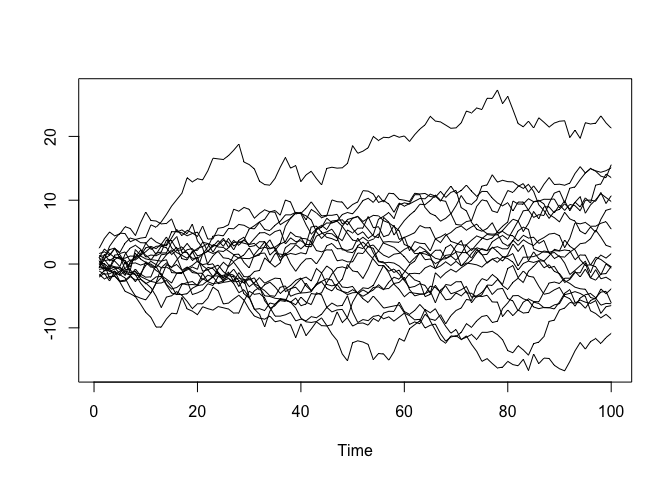
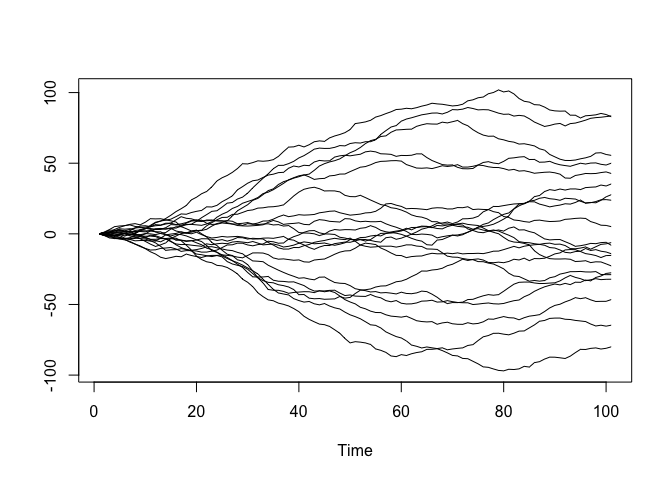
Corrected few errors in README and vignettes: made the simulated process non-stationary with 2 lags and some clarifications added.

diff --git a/README.md b/README.md
@@ -274,31 +274,42 @@ library(igraph)
 #>     union
 
 #First, let us simulate some time series
-#The SimulNS below simulates a (non-sparse) non-stationary VAR(1) with sample size T_ and number of variables g
-simulNS=function(T_,g){
+#The SimulVAR below simulates a (non-sparse) stationary VAR(1) with sample size T_ and number of variables g
+SimulVAR=function(T_,g){
   coef1<-matrix(NA,nrow=g,ncol=g)
   for (i in 1:g) {
     for (j in 1:g) {
       coef1[i,j]<-((-1)^(abs(i-j)))*(0.4^(abs(i-j)+1))
     }
   }
-  diag(coef1)<-0.7
   presample<-1
   T_new<-T_+presample
   eps1<-rnorm(ncol(coef1)*T_new,0,1)
   eps<-matrix(eps1,nrow=ncol(coef1))
   X <- matrix(nrow=ncol(coef1),ncol=T_new)
-  X[,1] <- (eps[,1])
+  X[,1] <- eps[,1]
   for (t in 2:T_new) {
-    X[,t] <- X[,t-1]+(eps[,t])
+    X[,t] <- (coef1)%*%X[,t-1]+eps[,t]
   }
   finseries<- X[,(1+presample):T_new]
   return(t(finseries))
 }
 
-#Let us fix some seed and simulate 20 non-stationary time series with sample size 100 from a VAR(1)
+#You can check the stationarity of the VAR(1) by simply observing:
+g=20
+coef<-matrix(NA,nrow=g,ncol=g)
+  for (i in 1:g) {
+    for (j in 1:g) {
+      coef[i,j]<-((-1)^(abs(i-j)))*(0.4^(abs(i-j)+1))
+    }
+  }
+max(eigen(coef)$values) #<1
+#> [1] 0.9132571
+
+#Let us fix some seed and simulate 20 non-stationary time series with sample size 100 from a VAR(2) by taking the inverse difference of the stationary series simulated
 set.seed(123)
-dataset<-as.matrix(simulNS(100,20))
+dataset_I0<-as.matrix(SimulVAR(100,20))
+dataset<-as.matrix(diffinv(dataset_I0))
 colnames(dataset)<-c(paste(rep("Var",20),1:20))
 
 #Let us plot the time series to get a feeling of what kind of data we are dealing with
@@ -310,67 +321,81 @@ ts.plot(dataset)
 ``` r
 
 #Select the lag-length of the VAR using HDGCvar::lags_upbound_BIC
-selected_lag<-lags_upbound_BIC(dataset,p_max=10) 
-#Note: hooray! the selected lag is p=1 which it is correct given our simulated data! Of course in practice we could not know this.
+selected_lag<-lags_upbound_BIC(dataset,p_max=10)
+print(selected_lag)
+#> [1] 2
+#Note: hooray! the selected lag is p=2 which it is correct given our simulated data! Of course in practice we could not know this.
 
 #Suppose we are interested in testing whether variable name "Var5" Granger-causes variable name "Var1" given all other variables in your dataset.
 interest_variables=list("GCto"="Var 1","GCfrom"="Var 5")
 
-#By quick diagnostics on the series in your dataset from the previous plot we seem to have some time series with unit roots and probably cointegration. 
+#By visual diagnostics on the series in our dataset from the previous plot we definitely have some time series with unit roots and probably cointegration. Actually: we definitely know this as we created the process in such a way that all the variables have a unit root, in practice obviously this would not be the case.
 
-#With HDGCvar you can completely avoid any pre-tests of integration/cointegration of your series. As we do not know whether the maximum order of integration of our time series is one or two, the safe choice is to let d=2 and simply run
+#However, the nice feature of HDGCvar is that you can completely avoid any pre-tests of integration/cointegration of your series. As we do not know whether the maximum order of integration of our time series is one or two, the safe choice is to let d=2 and simply run
 
 HDGC_VAR(GCpair=interest_variables, data=dataset, p = selected_lag, d = 2, bound = 0.5 * nrow(dataset),
                      parallel = T, n_cores = NULL) 
 #> $tests
 #>             Asymp    FS_cor
-#> LM_stat 0.9430489 0.7755906
-#> p_value 0.3314950 0.3811645
+#> LM_stat 2.1901403 0.8547127
+#> p_value 0.3345161 0.4295616
 #> 
 #> $selections
 #>  Var 1 l1  Var 2 l1  Var 3 l1  Var 4 l1  Var 6 l1  Var 7 l1  Var 8 l1  Var 9 l1 
-#>      TRUE      TRUE      TRUE      TRUE      TRUE      TRUE      TRUE     FALSE 
+#>      TRUE      TRUE      TRUE      TRUE      TRUE     FALSE      TRUE      TRUE 
 #> Var 10 l1 Var 11 l1 Var 12 l1 Var 13 l1 Var 14 l1 Var 15 l1 Var 16 l1 Var 17 l1 
-#>      TRUE      TRUE     FALSE     FALSE     FALSE      TRUE      TRUE     FALSE 
-#> Var 18 l1 Var 19 l1 Var 20 l1 
-#>      TRUE      TRUE     FALSE
+#>     FALSE     FALSE     FALSE      TRUE     FALSE     FALSE      TRUE     FALSE 
+#> Var 18 l1 Var 19 l1 Var 20 l1  Var 1 l2  Var 2 l2  Var 3 l2  Var 4 l2  Var 6 l2 
+#>     FALSE     FALSE      TRUE      TRUE      TRUE     FALSE     FALSE      TRUE 
+#>  Var 7 l2  Var 8 l2  Var 9 l2 Var 10 l2 Var 11 l2 Var 12 l2 Var 13 l2 Var 14 l2 
+#>     FALSE      TRUE     FALSE     FALSE     FALSE     FALSE     FALSE     FALSE 
+#> Var 15 l2 Var 16 l2 Var 17 l2 Var 18 l2 Var 19 l2 Var 20 l2 
+#>      TRUE      TRUE      TRUE     FALSE     FALSE     FALSE
 
 #Now, suppose we are interested in testing multiple Granger causality relations
 mult_interest_variables<-list(list("GCto"="Var 7", "GCfrom"="Var 19"),list("GCto"="Var 4", "GCfrom"="Var 16"))
-HDGC_VAR_multiple(dataset, GCpairs=mult_interest_variables, p=1, d=2, bound = 0.5 * nrow(dataset),
+HDGC_VAR_multiple(dataset, GCpairs=mult_interest_variables, p= selected_lag, d=2, bound = 0.5 * nrow(dataset),
                      parallel = T, n_cores = NULL)
 #> $tests
 #> , , GCtests = Var 19 -> Var 7
 #> 
 #>          type
 #> stat          Asymp    FS_cor
-#>   LM_stat 0.3564270 0.2802923
-#>   p_value 0.5504973 0.5980528
+#>   LM_stat 0.6076704 0.2301010
+#>   p_value 0.7379825 0.7950274
 #> 
 #> , , GCtests = Var 16 -> Var 4
 #> 
 #>          type
-#> stat           Asymp     FS_cor
-#>   LM_stat 0.07479022 0.06018699
-#>   p_value 0.78448580 0.80684497
+#> stat          Asymp    FS_cor
+#>   LM_stat 0.5822482 0.2355135
+#>   p_value 0.7474229 0.7907248
 #> 
 #> 
 #> $selections
 #> $selections$`Var 19 -> Var 7`
 #>  Var 1 l1  Var 2 l1  Var 3 l1  Var 4 l1  Var 5 l1  Var 6 l1  Var 7 l1  Var 8 l1 
-#>      TRUE      TRUE     FALSE      TRUE      TRUE      TRUE      TRUE      TRUE 
+#>     FALSE      TRUE     FALSE      TRUE     FALSE     FALSE      TRUE      TRUE 
 #>  Var 9 l1 Var 10 l1 Var 11 l1 Var 12 l1 Var 13 l1 Var 14 l1 Var 15 l1 Var 16 l1 
-#>      TRUE      TRUE      TRUE      TRUE      TRUE     FALSE     FALSE      TRUE 
-#> Var 17 l1 Var 18 l1 Var 20 l1 
-#>      TRUE      TRUE      TRUE 
+#>     FALSE     FALSE      TRUE      TRUE     FALSE     FALSE      TRUE      TRUE 
+#> Var 17 l1 Var 18 l1 Var 20 l1  Var 1 l2  Var 2 l2  Var 3 l2  Var 4 l2  Var 5 l2 
+#>     FALSE      TRUE      TRUE     FALSE     FALSE     FALSE      TRUE      TRUE 
+#>  Var 6 l2  Var 7 l2  Var 8 l2  Var 9 l2 Var 10 l2 Var 11 l2 Var 12 l2 Var 13 l2 
+#>      TRUE      TRUE     FALSE     FALSE     FALSE     FALSE     FALSE     FALSE 
+#> Var 14 l2 Var 15 l2 Var 16 l2 Var 17 l2 Var 18 l2 Var 20 l2 
+#>     FALSE      TRUE      TRUE     FALSE      TRUE      TRUE 
 #> 
 #> $selections$`Var 16 -> Var 4`
 #>  Var 1 l1  Var 2 l1  Var 3 l1  Var 4 l1  Var 5 l1  Var 6 l1  Var 7 l1  Var 8 l1 
-#>      TRUE     FALSE     FALSE      TRUE      TRUE      TRUE     FALSE      TRUE 
+#>     FALSE      TRUE     FALSE      TRUE      TRUE      TRUE     FALSE      TRUE 
 #>  Var 9 l1 Var 10 l1 Var 11 l1 Var 12 l1 Var 13 l1 Var 14 l1 Var 15 l1 Var 17 l1 
-#>      TRUE      TRUE      TRUE     FALSE      TRUE      TRUE     FALSE      TRUE 
-#> Var 18 l1 Var 19 l1 Var 20 l1 
-#>      TRUE      TRUE      TRUE
+#>     FALSE      TRUE     FALSE     FALSE     FALSE      TRUE      TRUE     FALSE 
+#> Var 18 l1 Var 19 l1 Var 20 l1  Var 1 l2  Var 2 l2  Var 3 l2  Var 4 l2  Var 5 l2 
+#>     FALSE     FALSE     FALSE     FALSE     FALSE     FALSE      TRUE     FALSE 
+#>  Var 6 l2  Var 7 l2  Var 8 l2  Var 9 l2 Var 10 l2 Var 11 l2 Var 12 l2 Var 13 l2 
+#>     FALSE     FALSE     FALSE     FALSE     FALSE      TRUE      TRUE      TRUE 
+#> Var 14 l2 Var 15 l2 Var 17 l2 Var 18 l2 Var 19 l2 Var 20 l2 
+#>     FALSE      TRUE     FALSE     FALSE     FALSE     FALSE
 
 
 #Let us now estimate the full network of causality among the 20 series in dataset
